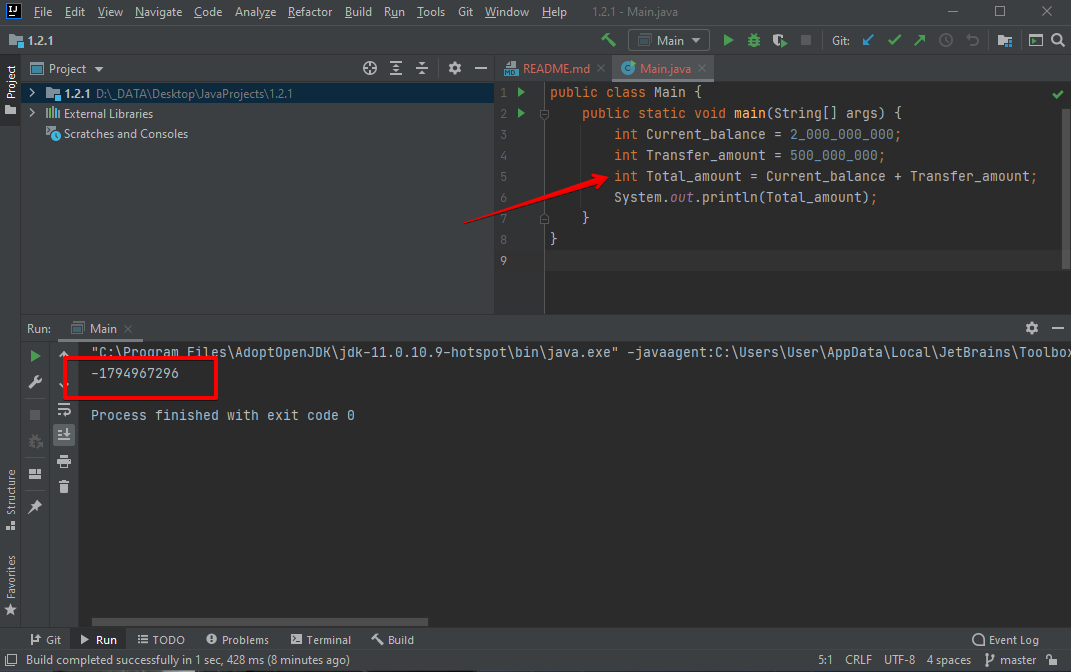
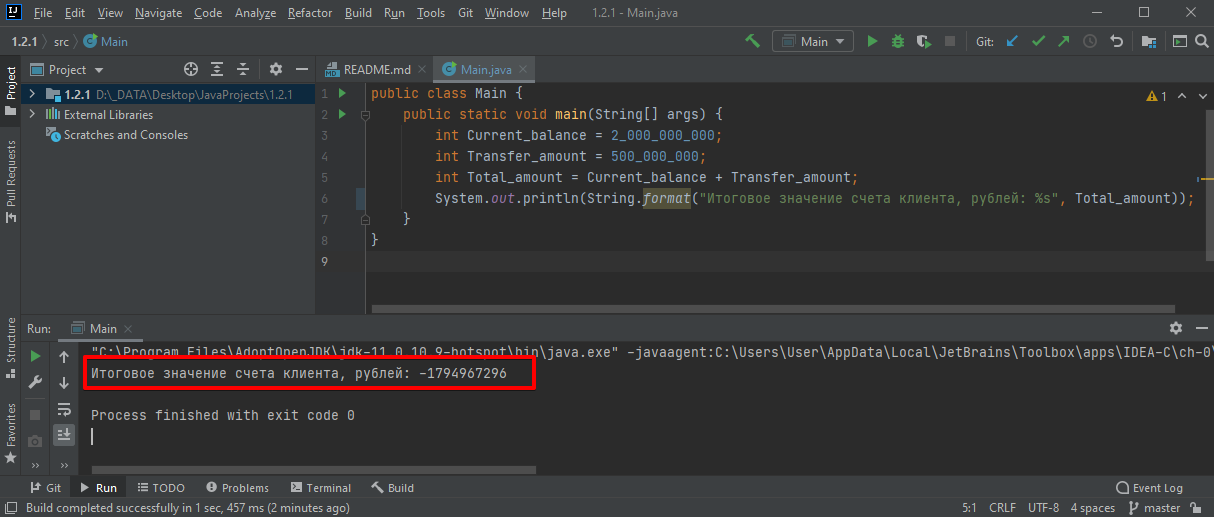
Final commit

diff --git a/src/Main.java b/src/Main.java
@@ -3,6 +3,6 @@ public class Main {
         int Current_balance = 2_000_000_000;
         int Transfer_amount = 500_000_000;
         int Total_amount = Current_balance + Transfer_amount;
-        System.out.println(Total_amount);
+        System.out.println(String.format("Итоговое значение счета клиента, рублей: %s", Total_amount));
     }
 }

diff --git a/README.md b/README.md
@@ -1,11 +1,11 @@
 # **Отчёт о тестировании Money Transfer**
 ## **Краткое описание**
 08.03.2021 было проведено тестирование приложения для расчета итогового значения счета клиента при пополнении. На тестирование затрачено времени: 0,1 часа. В результате выявлены следующие дефекты:
-* [Тип данных переменной Total_amount не соответствует исходным данным задачи]()
+* [Тип данных переменной Total_amount не соответствует исходным данным задачи](https://github.com/AlexeyVFrolov/Java-1.2.1/issues/1)
 
 ## **Описание процесса тестирования**
 В процессе тестирования использовались следующие артефакты: 
-* [Файл с кодом Main.java]()
+* [Файл с кодом Main.java](https://github.com/AlexeyVFrolov/Java-1.2.1/blob/master/src/Main.java)
 
 В качестве тестовых данных использовались данные:
 * значение текущего баланса счёта клиента - 2000000000 (два миллиарда рублей)
